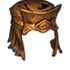
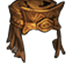
Turns DLC helmets into layers

diff --git a/make_legend_helmets.py b/make_legend_helmets.py
@@ -379,6 +379,10 @@ layers = [
  "title" :  "Leather Hood", \
  "desc" :  "A closed leather cap that protects the head and neck. Padded for extra protection." \
 },
+{"name" : "beak_hood"                     , "itemType" : "this.Const.Items.ItemType.Cultist", "layer" : "hood", "min" : 1, "max" : 1, "base" : True, "value" : 150, "con" : 65, "stam" : -3, "vis" : -1, "hair" : "true", "beard" : "false",  \
+ "title" :  "Beaked Hood", \
+ "desc" :  "A thick leather hood with a distinctive, bird-like mask. The beak acts as a ventilator, containing sweet-smelling herbs to ward away sickness and disease." \
+},
 {"name" : "padded_hood"                     , "layer" : "hood", "min" : 1, "max" : 3, "base" : True, "value" : 115, "con" : 50, "stam" : -2, "vis" : 0, "hair" : "true", "beard" : "false",  \
  "title" :  "Full Aketon Cap", \
  "desc" :  "A large padded cloth cap also covering the neck." \
@@ -398,6 +402,10 @@ layers = [
 {"name" : "southern_niqaab"                     , "layer" : "hood", "min" : 1, "max" : 4, "base" : True, "value" : 300, "con" : 45, "stam" : -1, "vis" : 0, "hair" : "true", "beard" : "true",  \
  "title" :  "Niqaab", \
  "desc" :  "A headwrap, protects from the sun and light blows." \
+},
+{"name" : "full_mask"                     , "layer" : "hood", "min" : 1, "max" : 1, "base" : True, "value" : 50, "con" : 25, "stam" : -1, "vis" : -1, "hair" : "true", "beard" : "true",  \
+ "title" :  "Full Cloth Mask", \
+ "desc" :  "An ominous black mask to cover the face" \
 },
 {"name" : "open_chain_hood"                     , "layer" : "hood", "min" : 1, "max" : 3, "base" : True, "value" : 225, "con" : 65, "stam" : -3, "vis" : 0, "hair" : "true", "beard" : "false",  \
  "title" :  "Chain Mail Hood", \
@@ -637,6 +645,10 @@ layers = [
  "title" :  "Kettle Helm", \
  "desc" :  "A full-metal helmet with a broad rim." \
 },
+{"name" : "kettle_hat"                     , "layer" : "helm", "min" : 1, "max" : 1, "value" : 800, "con" : 120, "stam" : -9, "vis" : -1, "hair" : "true", "beard" : "false",  \
+ "title" :  "Kettle Hat", \
+ "desc" :  "A full-metal helmet with a very wide rim." \
+},
 {"name" : "kettle_helm_named"                     , "layer" : "helm", "min" : 1, "max" : 1, "value" : 3500, "con" : 130, "stam" : -9, "vis" : -2, "hair" : "true", "beard" : "false", "named" : True, "rmaxViz" : 1, "rminViz" : 2, "rmaxStam" : 7, "rminStam" : 9, "rminCond" : 130, "rmaxCond" : 155, "names" : Names, \
  "title" :  "Kettle Helm", \
  "desc" :  "An exceptional and sturdy kettle helm. Blackened and polished, it has a gilded point." \
@@ -708,6 +720,10 @@ layers = [
 {"name" : "great_helm"                     , "layer" : "helm", "min" : 1, "max" : 6, "value" : 2500, "con" : 175, "stam" : -12, "vis" : -2, "hair" : "true", "beard" : "true",  \
  "title" :  "Great Helm", \
  "desc" :  "A closed metal helm with breathing holes. Great in the way of protection but hard to breathe in and limiting the field of view." \
+},
+{"name" : "full_helm"                     , "layer" : "helm", "min" : 1, "max" : 1, "value" : 3000, "con" : 180, "stam" : -13, "vis" : -2, "hair" : "true", "beard" : "true",  \
+ "title" :  "Full Helm", \
+ "desc" :  "A closed metal helm with breathing holes. Lovingly maintained despite its extensive use" \
 },
 {"name" : "enclave_great_helm"                     , "layer" : "helm", "min" : 1, "max" : 1, "value" : 2650, "con" : 180, "stam" : -12, "vis" : -2, "hair" : "true", "beard" : "true",  \
  "title" :  "Great Helm", \
@@ -831,10 +847,13 @@ layers = [
  "title" :  "Cloth Long Hood", \
  "desc" :  "A simple hood to protect against weather and scratches." \
 },
-
-{"name" : "orc_leather_mask"                     , "layer" : "top", "min" : 1, "max" : 1, "value" : 150, "con" : 45, "stam" : -6, "vis" : -1, "hair" : "true", "beard" : "false",  \
- "title" :  "Orc Leather Mask", \
- "desc" :  "A basic leather mask worn by young orcs." \
+{"name" : "cloth_long_hood"                     , "layer" : "top", "min" : 1, "max" : 4, "value" : 30, "con" : 10, "stam" : 0, "vis" : 0, "hair" : "true", "beard" : "false",  \
+ "title" :  "Cloth Long Hood", \
+ "desc" :  "A simple hood to protect against weather and scratches." \
+},
+{"name" : "mask_beak"                     , "layer" : "top", "min" : 1, "max" : 1, "value" : 50, "con" : 20, "stam" : -1, "vis" : -1, "hair" : "true", "beard" : "false",  \
+ "title" :  "Physicians Mask", \
+ "desc" :  "a distinctive, bird-like mask. The beak acts as a ventilator, containing sweet-smelling herbs to ward away sickness and disease" \
 },
 {"name" : "orc_horn_mask"                     , "layer" : "top", "min" : 1, "max" : 1, "value" : 200, "con" : 60, "stam" : -8, "vis" : -2, "hair" : "true", "beard" : "false",  \
  "title" :  "Orc Horn Mask", \
@@ -848,6 +867,10 @@ layers = [
 {"name" : "goblin_leaves"                     , "layer" : "top", "min" : 1, "max" : 1, "value" : 5, "con" : 5, "stam" : 0, "vis" : 0, "hair" : "true", "beard" : "false",  \
  "title" :  "Goblin Leaves", \
  "desc" :  "A set of leaves used by goblins to disguise themselves." \
+},
+{"name" : "undertakers_scarf"                     , "layer" : "top", "min" : 1, "max" : 1, "value" : 20, "con" : 5, "stam" : 0, "vis" : 0, "hair" : "true", "beard" : "false",  \
+ "title" :  "Undertaker Scarf", \
+ "desc" :  "A scarf to cover the mouth. Durable enough to protect against weather and scratches." \
 },
 {"name" : "goblin_leaf_helm"                     , "layer" : "top", "min" : 1, "max" : 1, "value" : 100, "con" : 25, "stam" : -1, "vis" : -1, "hair" : "true", "beard" : "false",  \
  "title" :  "Goblin Leaf Mask", \
@@ -916,6 +939,14 @@ layers = [
 {"name" : "chain_attachment"                     , "layer" : "top", "min" : 1, "max" : 1, "value" : 250, "con" : 25, "stam" : -1, "vis" : 0, "hair" : "false", "beard" : "true",  \
  "title" :  "Chain Attachment", \
  "desc" :  "A piece of mail used for hanging over the mouth and nose." \
+},
+{"name" : "helm_adornment"                     , "layer" : "top", "min" : 1, "max" : 1, "value" : 500, "con" : 20, "stam" : 0, "vis" : 0, "hair" : "true", "beard" : "false",  \
+ "title" :  "Helm Adornment", \
+ "desc" :  "Relics of adornment to create the helmet of a true questing knight" \
+},
+{"name" : "helm_adornment_rotten"                     , "layer" : "top", "min" : 1, "max" : 1, "value" : 100, "con" : 10, "stam" : 0, "vis" : 0, "hair" : "true", "beard" : "false",  \
+ "title" :  "Tarnished Helm Adornment", \
+ "desc" :  "Ancient rotten relics of adornment from the helmet of a long dead questing knight" \
 },
 {"name" : "faceplate_flat"                     , "layer" : "top", "min" : 1, "max" : 6, "value" : 300, "con" : 35, "stam" : -2, "vis" : -1, "hair" : "false", "beard" : "false",  \
  "title" :  "Flat Faceplate", \
@@ -1183,6 +1214,10 @@ layers = [
  "title" :  "Noble Hat", \
  "desc" :  "A fashionable hat for courtesans." \
 },
+{"name" : "chaperon"                     , "layer" : "vanity", "min" : 1, "max" : 9, "value" : 200, "con" : 15, "stam" : -1, "vis" : 0, "hair" : "true", "beard" : "false",  \
+ "title" :  "Chaperon", \
+ "desc" :  "Fashionable headerware for adorning a questing knight" \
+},
 {"name" : "ancient_wig"                     , "layer" : "vanity", "min" : 1, "max" : 1, "value" : 100, "con" : 10, "stam" : 0, "vis" : 0, "hair" : "true", "beard" : "false",  \
  "title" :  "Ancient Wig", \
  "desc" :  "A wig from an ancient embalmed noble." \
@@ -1206,6 +1241,14 @@ layers = [
 {"name" : "plait"                     , "layer" : "vanity", "min" : 1, "max" : 12, "value" : 100, "con" : 10, "stam" : 0, "vis" : 0, "hair" : "false", "beard" : "false",  \
  "title" :  "Plait", \
  "desc" :  "A decorative plait used to adorn helms." \
+},
+{"name" : "thick_braid"                     , "layer" : "vanity", "min" : 1, "max" : 6, "value" : 300, "con" : 20, "stam" : -1, "vis" : 0, "hair" : "false", "beard" : "false",  \
+ "title" :  "Torse", \
+ "desc" :  "A padded roller made of linen, that is put on the top of helmet. Helps to identify a warrior during the battle and amortize hits in the head" \
+},
+{"name" : "thick_braid_rotten"                     , "layer" : "vanity", "min" : 1, "max" : 1, "value" : 200, "con" : 15, "stam" : -1, "vis" : 0, "hair" : "false", "beard" : "false",  \
+ "title" :  "Rotten Torse", \
+ "desc" :  "An old mouldy linen torse. The colours are faded but it still offers some small protection" \
 },
 {"name" : "ponytail"                     , "layer" : "vanity", "min" : 1, "max" : 4, "value" : 100, "con" : 10, "stam" : 0, "vis" : 0, "hair" : "false", "beard" : "false",  \
  "title" :  "Ponytail", \
@@ -1267,6 +1310,10 @@ layers = [
  "title" :  "Wizard Cowl", \
  "desc" :  "A pointy hat with a broad rim." \
 },
+{"name" : "undertakers_hat"                     , "layer" : "vanity", "min" : 1, "max" : 1, "value" : 50, "con" : 12, "stam" : 0, "vis" : 0, "hair" : "true", "beard" : "false",  \
+ "title" :  "Undertaker Hat", \
+ "desc" :  "A wide-brimmed feathered hat to protect against weather and scratches." \
+},
 {"name" : "wolf_helm"                     , "layer" : "vanity", "min" : 1, "max" : 1, "value" : 100, "con" : 10, "stam" : 0, "vis" : 0, "hair" : "true", "beard" : "false",  \
  "title" :  "Wolf Helm", \
  "desc" :  "An impressive wolf head covering." \
@@ -1282,6 +1329,10 @@ layers = [
 {"name" : "royal_hood"                     , "layer" : "vanity", "min" : 1, "max" : 1, "value" : 100, "con" : 10, "stam" : 0, "vis" : 0, "hair" : "true", "beard" : "false",  \
  "title" :  "Royal Hood", \
  "desc" :  "The ornate hood of distant royalty, made from the finest materials." \
+},
+{"name" : "physicians_hood"                     , "layer" : "vanity", "min" : 1, "max" : 1, "value" : 100, "con" : 10, "stam" : 0, "vis" : 0, "hair" : "true", "beard" : "false",  \
+ "title" :  "Physician Hood", \
+ "desc" :  "A thick hood for keeping out splatters and vapours" \
 },
 {"name" : "mummy_headress"                     , "layer" : "vanity", "min" : 1, "max" : 1, "value" : 100, "con" : 10, "stam" : 0, "vis" : 0, "hair" : "true", "beard" : "false",  \
  "title" :  "Ancient Southern Headress", \

diff --git a/ReleaseNotes.md b/ReleaseNotes.md
@@ -10,7 +10,6 @@
 **Wildlife**
 Bear graphics updated 
 
-
 **Kobolds**
 Kobolds can now found in marshes, where they disapear into the undergrowth while their dart guns waylay you
 You can try them out in a new tactical scenario 'Kobold Swamp'
@@ -22,9 +21,33 @@ New unit: Noble Guard - High tier with plate armor
 New unit: Man at Arms - Very high tier with decorated armor and new helmets 
 You can try them out in a new tactical scenario 'Noble Camp' 
 
+**Hats**
+Vanity:
+-Undertaker's Hat
+-Torse (in 6 colours) 
+-Rotten Torse 
+-Physician's Hood 
+-Chaperon (in 9 colours) 
+
+Top:
+-Physician's Mask 
+-Helm Adornment
+-Tarnished Helm Adornment
+-Undertaker's Scarf
+
+Helm:
+-Full Helm
+-Kettle Hat
+
+Hood:
+-Beak Hood
+-Full Mask 
+
+
 Changes:
 Undead facemask helmets moved to top layer so they can be stacked on helmets
-The wreath helmet has a wreath 
+The emporer's wreath helmet now has a wreath 
+More variety added to character and location names
 
 
 ## 16.1.5 - Soujourn v5
